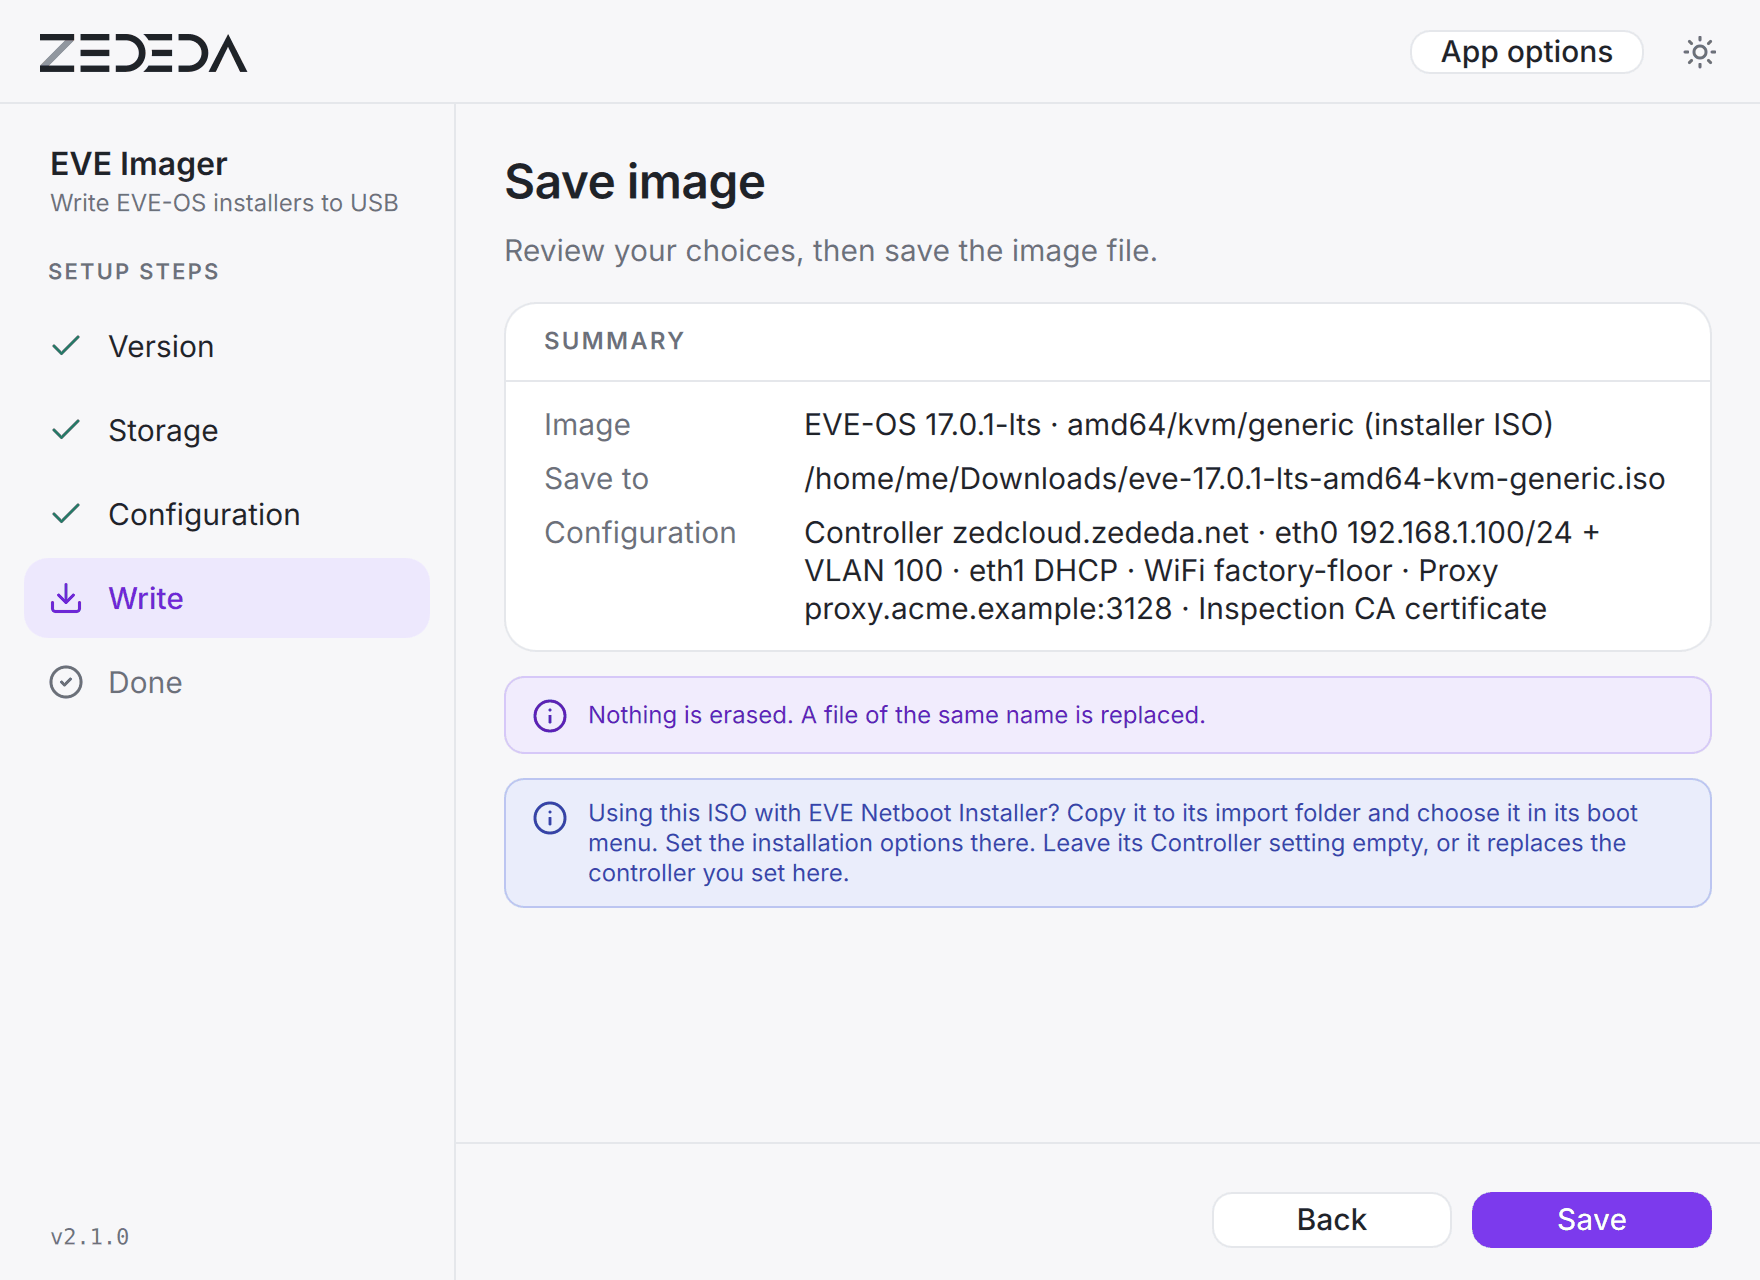
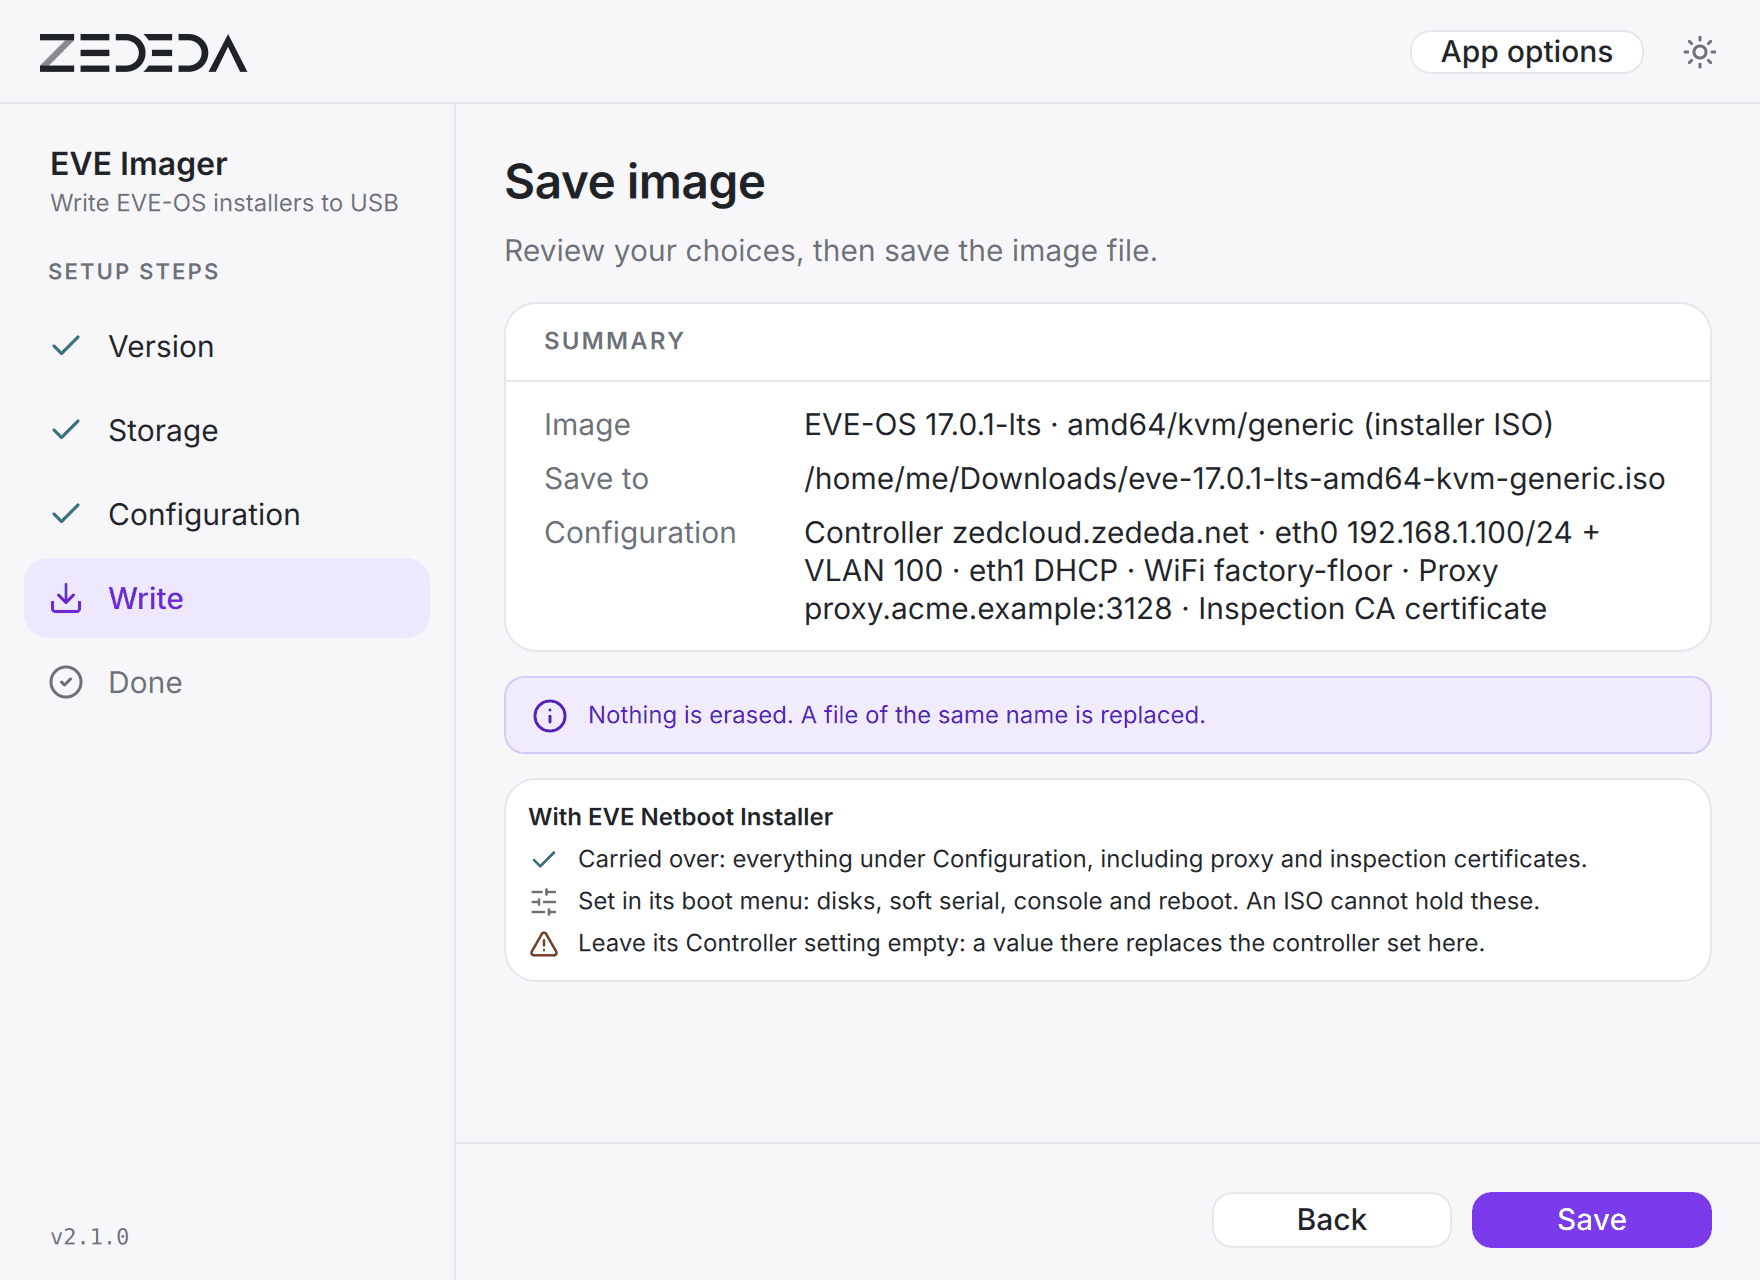
Say what carries over to EVE Netboot Installer, in the app and the README
App: the note on the summary before saving an installer ISO is now a
small card with three lines: what is carried over (everything under
Configuration, including proxy and inspection certificates), what is set
in the netboot installer's boot menu instead (the installation options),
and the one thing it replaces (the controller, if its Controller setting
has a value).

README: the section on EVE Netboot Installer gets a table with the same
three groups, where to find the Controller setting, and when the proxy
and inspection settings take effect.

Checked against the EVE-OS installer: it copies config.img as a whole
and then writes eve_install_server, if given, over the server file;
nothing else in it is touched.

Claude-Session: https://claude.ai/code/session_01RpjJ8m8GuMWcRh2u9w2tCm

Changed region(s): [[0.2812, 0.625, 0.9375, 0.75]]

diff --git a/src/wizard/WritingStep.qml b/src/wizard/WritingStep.qml
@@ -254,16 +254,58 @@ WizardStepBase {
                               : qsTr("Writing erases everything on the storage device.")
         }
 
-        // For people who take the ISO to a network boot server: only when an
-        // installer ISO is saved as a file, never when writing a drive
-        ImBanner {
+        // For people who take the ISO to a network boot server: what carries
+        // over, what is set there, and the one thing that gets replaced. Only
+        // when an installer ISO is saved as a file, never when writing a drive.
+        ImCard {
             Layout.fillWidth: true
-            kind: "info"
+            padding: Style.spacingSmallPlus
+            spacing: Style.spacingXSmall
             visible: root.saving && root.wizardContainer.eveIsIsoImage
                      && root.wizardContainer.saveVariant !== "nettar"
                      && !root.isWriting && !root.isComplete && !root.hasFailed
-            text: qsTr("Using this ISO with EVE Netboot Installer? Copy it to its import folder and choose it in its boot menu. "
-                       + "Set the installation options there. Leave its Controller setting empty, or it replaces the controller you set here.")
+
+            Text {
+                text: qsTr("With EVE Netboot Installer")
+                font.family: Style.fontFamily
+                font.pointSize: Style.fontSizeDescription
+                font.weight: Style.fontWeightSemiBold
+                color: Style.text
+                Layout.fillWidth: true
+                Accessible.role: Accessible.Heading
+            }
+            Repeater {
+                model: [
+                    { icon: "check", tone: "ok",
+                      text: qsTr("Carried over: everything under Configuration, including proxy and inspection certificates.") },
+                    { icon: "sliders", tone: "muted",
+                      text: qsTr("Set in its boot menu: disks, soft serial, console and reboot. An ISO cannot hold these.") },
+                    { icon: "alert", tone: "warn",
+                      text: qsTr("Leave its Controller setting empty: a value there replaces the controller set here.") }
+                ]
+                RowLayout {
+                    id: netbootLine
+                    required property var modelData
+                    Layout.fillWidth: true
+                    spacing: Style.spacingSmall
+                    ImIcon {
+                        name: netbootLine.modelData.icon
+                        size: Style.scaled(15)
+                        color: netbootLine.modelData.tone === "ok" ? Style.ok
+                             : netbootLine.modelData.tone === "warn" ? Style.warn : Style.muted
+                        Layout.alignment: Qt.AlignTop
+                        Layout.topMargin: Style.scaled(1)
+                    }
+                    Text {
+                        text: netbootLine.modelData.text
+                        font.family: Style.fontFamily
+                        font.pointSize: Style.fontSizeDescription
+                        color: Style.text
+                        wrapMode: Text.WordWrap
+                        Layout.fillWidth: true
+                    }
+                }
+            }
         }
 
         // Progress card

diff --git a/README.md b/README.md
@@ -56,7 +56,7 @@ EVE Imager downloads EVE-OS releases directly from GitHub, lets you configure de
 | | |
 |---|---|
 | **Save as file…** — choose what the file is for | **Summary before saving an installer ISO** |
-| ![The four file formats: raw, compressed raw, installer ISO, network boot archive](doc/screenshots/save-formats.png) | ![Summary before saving an installer ISO, with the note about EVE Netboot Installer](doc/screenshots/save-summary.png) |
+| ![The four file formats: raw, compressed raw, installer ISO, network boot archive](doc/screenshots/save-formats.png) | ![Summary before saving an installer ISO, with what carries over to EVE Netboot Installer](doc/screenshots/save-summary.png) |
 
 ### Dark appearance
 
@@ -107,18 +107,23 @@ EVE Imager downloads EVE-OS releases directly from GitHub, lets you configure de
 4. Copy the ISO into EVE Netboot Installer's import folder. On its VM appliance, upload it in the web management or copy it to its SMB share.
 5. Within a minute the ISO is in the boot menu under _Local installers_, with its file name. Choose it on the machine to install.
 
-**What is set where**
+**What carries over, and what does not**
 
-| Setting | Where |
-|---|---|
-| Controller, network interfaces, WiFi, proxy and inspection CA certificates, controller root certificate, onboarding certificate and key, SSH key, bootstrap config | EVE Imager, **Configuration** — saved in the ISO |
-| Install disk, `/persist` disk, wipe disks, reboot after installation, soft serial, console | EVE Netboot Installer's boot menu, _Installation options..._ |
+Everything you set under **Configuration** is inside the ISO and reaches the device. EVE Netboot Installer does not change it, with one exception: the controller.
 
-**Leave the controller empty in EVE Netboot Installer.** If its _Controller_ setting has a value, the installer writes that value over the controller you set in EVE Imager, without a message. Leave it empty, or set it to the same controller. Where to find it:
+| | Settings | With EVE Netboot Installer |
+|---|---|---|
+| **Carried over** | Network interfaces (static address, DNS, NTP, VLANs), WiFi, proxy settings, inspection CA certificates, controller root certificate, onboarding certificate and key, SSH key, bootstrap config | Used as saved in the ISO. The netboot installer has no settings for these. |
+| **Carried over, unless replaced** | Controller address | Used as saved in the ISO **only if the netboot installer's _Controller_ setting is empty**. If it has a value, the installer writes that value over the one in the ISO, without a message. |
+| **Not in the ISO** | Install disk, `/persist` disk, wipe disks, reboot after installation, soft serial, console | Set in the netboot installer's boot menu under _Installation options..._. An ISO cannot hold them, which is why EVE Imager greys out its Installation section for an ISO. By default the netboot installer uses the machine's MAC address as the soft serial. |
+
+Where to find the netboot installer's _Controller_ setting, to leave it empty (or set it to the same controller):
 
 - on the VM appliance: _Installer defaults_ → _Controller_;
 - with Docker Compose: `EVE_DEFAULT_INSTALL_SERVER`;
 - for one machine: clear it in the boot menu under _Installation options..._; the menu then shows _Controller: from ISO_.
+
+The proxy and inspection settings take effect when the installed device starts and contacts the controller. The installation itself does not need them: the machine loads everything from the boot server on the local network.
 
 **Good to know**
 
